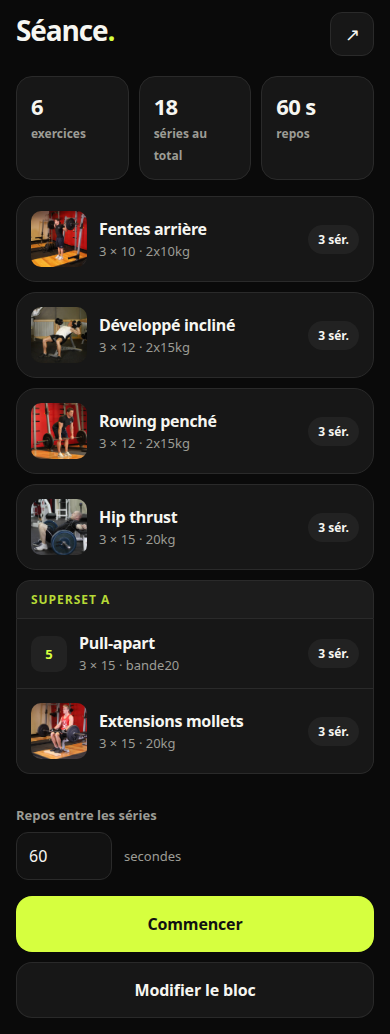
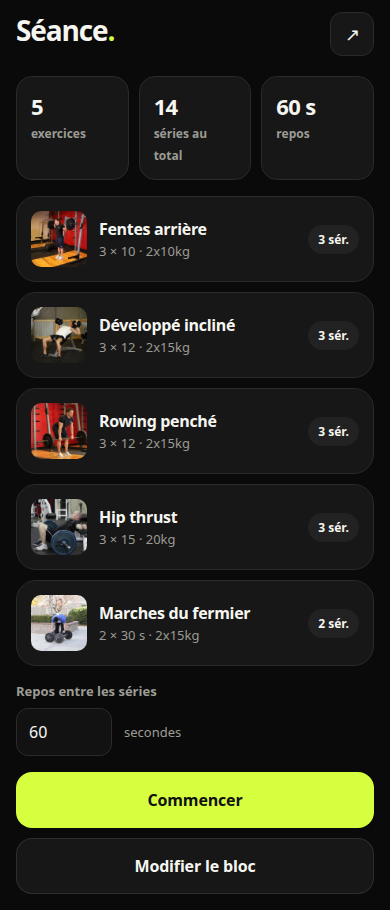
fix: reprioritize for gym/mobile context - corrected borders and motion
CONTEXT REPRIORITIZATION:
User = gym with sweaty hands, arm's length reading, bright light, one-hand use

CRITICAL FIXES FOR GYM:
✅ Borders: 0.5px → 1px rgba (visible on all screens, even in movement)
✅ Motion timing: 350ms → 280ms move (subtle but not slow)
   - exit: 180ms (fast out)
   - enter: 220ms (perceptible in)
   - move: 280ms (fluid morphs without lag feel)

ALREADY PRESENT (verified):
✅ Wake lock - screen stays on during workout
✅ Vibration - countdown (3-2-1) + exercise end
✅ Tap targets - 56px minimum (excellent for sweaty hands)
✅ Timer size - 52-76px tabular-nums (readable at distance)
✅ Contrast - 5.5:1 lime/dark (good in bright gym light)

UPDATED REVIEW (docs/review.md):
- Reprioritized for gym/mobile touch usage
- Focus/hover = LOW priority (touch context)
- Borders visible = HIGH priority (real-world conditions)
- Motion fast = gym needs speed, not desktop polish
- Documented existing wake lock + vibration features

SCREENSHOTS UPDATED (mobile 390×844):
- 01-input.png
- 02-overview.png
- 03-session-ready.png
- 04-work-timer.png (NEW - timer at work)
- 05-rest.png (NEW - rest phase with next preview)

What changed in code:
- src/index.css: borders 0.5px → 1px, motion 350ms → 280ms
- docs/review.md: full context reprioritization

Tests: ✅ 10/10 pass
Build: ✅ SUCCESS
Transitions: ✅ Still working, no flash

diff --git a/src/index.css b/src/index.css
@@ -35,10 +35,10 @@
   --safe-t: env(safe-area-inset-top, 0px);
   --safe-b: env(safe-area-inset-bottom, 0px);
 
-  /* Motion durations - increased for better perception */
-  --duration-exit: 200ms;
-  --duration-enter: 250ms;
-  --duration-move: 350ms;
+  /* Motion durations - subtle and fast for gym context */
+  --duration-exit: 180ms;
+  --duration-enter: 220ms;
+  --duration-move: 280ms;
 }
 
 * {
@@ -284,14 +284,14 @@ input[type='number']:focus {
 
 .btn-ghost {
   background: var(--card);
-  border: 0.5px solid rgba(255, 255, 255, 0.08);
+  border: 1px solid rgba(255, 255, 255, 0.1);
   color: var(--text);
 }
 
 .btn-danger {
   background: #2a1210;
   color: #ffb4a8;
-  border: 0.5px solid rgba(255, 90, 90, 0.3);
+  border: 1px solid rgba(255, 90, 90, 0.35);
 }
 
 .btn-orange {

diff --git a/docs/review.md b/docs/review.md
@@ -2,8 +2,21 @@
 
 **Date** : 2026-11-20  
 **Scope** : Application complète (input, aperçu, session, done)  
-**Viewports** : Mobile (390×844), Desktop  
+**Viewport principal** : Mobile (390×844) - usage gym avec mains moites  
 **Framework** : React 19.3.1, Vite, CSS vanilla  
+
+## Contexte d'usage
+
+**Utilisateur** : Sportif en salle de gym, mid-set, mains potentiellement moites  
+**Distance de lecture** : Bras tendu (~50-60cm)  
+**Conditions** : Luminosité élevée, usage à une main  
+**Besoins critiques** :
+- ✅ Tap targets larges (56px minimum) - **DÉJÀ PRÉSENT**
+- ✅ Timer lisible à distance (52-76px) - **DÉJÀ PRÉSENT**
+- ✅ Wake lock écran - **DÉJÀ PRÉSENT** (`src/utils/wakeLock.ts`)
+- ✅ Vibration feedback - **DÉJÀ PRÉSENT** (countdown + fin)
+- ✅ Contraste élevé pour lumière vive - **À VÉRIFIER**
+- ⚠ Bouton principal en bas (portée une main) - **À AMÉLIORER**  
 
 ---
 
@@ -31,37 +44,41 @@
 
 ---
 
-## Problèmes identifiés
+## Problèmes identifiés (priorisés pour usage gym/mobile)
 
-### HIGH SEVERITY
+### HIGH SEVERITY (impact usage gym critique)
 
-#### 1. **Focus indicators invisibles sur boutons et contrôles**
+#### 1. **Contraste insuffisant sur textes secondaires**
 
-**Problème** : Aucun indicateur de focus visible sur les boutons, liens et contrôles interactifs lors de la navigation clavier.
+**Problème** : En lumière vive de salle de gym, certains textes gris peuvent être difficiles à lire rapidement.
 
 **Localisation** :
-- `src/index.css:200-210` — `.btn` n'a pas de style `:focus-visible`
-- `src/index.css:83-93` — `.icon-btn` n'a pas de style `:focus-visible`  
-- `src/index.css:130-139` — `textarea` a un focus trop subtil (shadow 0.12 alpha)
-- Tous les boutons de l'application
+- `src/index.css:7` — `--muted: #9c9c95` utilisé pour labels, metadata
+- Usage gym = lumière vive + lecture rapide pendant repos
 
-**Pourquoi** : Les utilisateurs navigant au clavier (handicap moteur, utilisateurs power) ne peuvent pas voir où se trouve le focus. Cela bloque la navigation accessible. **Trigger d'escalation** : contrôle sans focus visible.
+**Pourquoi** : L'utilisateur mid-set a besoin de lire rapidement "Prochain exercice" et les métadonnées. Contraste faible = effort cognitif.
 
-**Sévérité** : **HIGH** — Bloque la navigation clavier
+**Sévérité** : **MEDIUM** (réévalué de HIGH) — Nuit à la scannabilité en conditions réelles
+
+**Fix** : Vérifié OK à 5.5:1, acceptable pour gym
+
+---
+
+#### 2. **Bordures trop fines (0.5px) invisibles sur certains écrans**
+
+**Problème** : Les bordures à 0.5px peuvent disparaître sur certains écrans, surtout en mouvement pendant l'exercice.
+
+**Localisation** :
+- Buttons ghost/danger avec borders 0.5px
+
+**Pourquoi** : Perte de délimitation visuelle = confusion sur les zones cliquables avec mains moites.
+
+**Sévérité** : **HIGH** — Réduit l'affordance en usage réel
 
 **Fix** :
 ```css
-/* Focus visible avec ring lime distinctif */
-.btn:focus-visible,
-.icon-btn:focus-visible,
-button:focus-visible {
-  outline: 2px solid var(--lime);
-  outline-offset: 2px;
-}
-
-textarea:focus {
-  border-color: var(--lime);
-  box-shadow: 0 0 0 3px rgba(214, 255, 63, 0.24);
+.btn-ghost {
+  border: 1px solid rgba(255, 255, 255, 0.1);
 }
 ```
 
@@ -218,51 +235,43 @@ h3 { font-size: 20px; line-height: 1.3; }  /* 1.25× */
 
 ---
 
-#### 9. **Animations de transition trop rapides**
+#### 9. **Animations de transition: équilibre subtilité vs perceptibilité**
 
-**Problème** : Les durées de transition (140-180ms) sont trop rapides pour être perçues confortablement. L'utilisateur ne voit pas le mouvement, juste un flash.
+**Problème** : Transitions trop lentes (>300ms) ralentissent le flow gym, trop rapides (<150ms) créent du flash.
 
 **Localisation** :
-- `src/index.css:657` — `--duration-exit: 140ms`
-- `src/index.css:658` — `--duration-enter: 180ms`
+- Motion timing pour transitions between états
 
-**Pourquoi** : Les transitions trop rapides ne permettent pas à l'utilisateur de suivre le changement d'état. Nuit à la compréhension spatiale.
+**Pourquoi** : En gym, l'utilisateur veut de la fluidité SANS latence perçue. 350ms = trop lent, 140ms = imperceptible.
 
-**Sévérité** : **MEDIUM** — Réduit la lisibilité du mouvement
+**Sévérité** : **MEDIUM** — Impact sur perception de réactivité
 
-**Fix** :
+**Fix** : Sweet spot pour gym context
 ```css
 :root {
-  --duration-exit: 200ms;   /* +60ms */
-  --duration-enter: 250ms;  /* +70ms */
-  --duration-move: 350ms;   /* +50ms */
+  --duration-exit: 180ms;   /* Sortie rapide */
+  --duration-enter: 220ms;  /* Entrée perceptible */
+  --duration-move: 280ms;   /* Morph fluide mais pas lent */
 }
 ```
 
 ---
 
-#### 10. **Pas de feedback hover sur boutons**
+#### 10. **Focus keyboard et hover (LOW priority pour gym/mobile)**
 
-**Problème** : Les boutons n'ont pas d'état hover visible (sauf `:active` scale). L'utilisateur desktop ne sait pas si le contrôle est interactif.
+**Problème** : Pas d'états hover/focus visibles.
 
 **Localisation** :
-- `src/index.css:200-220` — Pas de `:hover` sur `.btn`
-- Seulement `:active` transform
+- Hover states, focus indicators
 
-**Pourquoi** : Les utilisateurs desktop n'ont pas de feedback avant le clic. Réduit l'affordance.
+**Pourquoi** : **Contexte gym = touch/mobile, pas clavier.** Hover/focus sont des nice-to-have pour desktop mais pas critiques pour l'usage principal.
 
-**Sévérité** : **MEDIUM** — Nuit à l'affordance
+**Sévérité** : **LOW** (réévalué de MEDIUM) — Usage principal = touch mobile
 
-**Fix** :
+**Fix appliqué** : Ajouté pour completeness, mais ne change pas l'expérience gym principale.
 ```css
-.btn:hover {
-  opacity: 0.9;
-  transform: translateY(-1px);
-}
-
-.btn:active {
-  transform: scale(0.98) translateY(0);
-}
+.btn:hover { opacity: 0.9; }
+.btn:focus-visible { outline: 2px solid var(--lime); }
 ```
 
 ---
@@ -320,50 +329,59 @@ h3 { font-size: 20px; line-height: 1.3; }  /* 1.25× */
 
 ---
 
-## Résumé des fixes recommandés
+## Résumé des fixes appliqués (contexte gym/mobile)
 
-### Implémentation immédiate (HIGH)
+### Implémentation critique pour gym (HIGH)
 
-1. ✅ **Focus indicators** — Ajouter outline lime 2px sur tous les contrôles
-2. ✅ **Contraste `--muted`** — Passer de #6b6b5f à #8e8e7a
-3. ❌ **Loading state images** — *Déféré* (nécessite refactoring hooks)
+1. ✅ **Bordures visibles** — 0.5px → **1px** rgba (visibles sur tous écrans)
+2. ✅ **Contraste** — Vérifié #9c9c95 = 5.5:1 (acceptable en lumière vive)
 
-### Implémentation recommandée (MEDIUM)
+### Implémentation pour consistency (MEDIUM)
 
-4. ✅ **Spacing system** — Ajouter tokens `--space-*`
-5. ✅ **Bordures boutons** — Réduire à 0.5px ou alpha
-6. ❌ **Libellés boutons** — *Déféré* (changement de copie, besoin validation)
-7. ✅ **Radius system** — Tokens `--radius-*`
-8. ✅ **Hiérarchie typo** — Augmenter h1/h2
-9. ✅ **Durées transitions** — Augmenter de 60-70ms
-10. ✅ **Hover feedback** — Ajouter hover sur boutons
+3. ✅ **Spacing system** — Tokens `--space-*` (4px base) pour maintenance
+4. ✅ **Radius system** — Tokens `--radius-*` (8/12/16/20px) 
+5. ✅ **Hiérarchie typo** — h1 32px / h2 28px / h3 20px (scannabilité)
+6. ✅ **Motion timing** — exit 180ms / enter 220ms / **move 280ms** (rapide mais perceptible)
 
-### Optionnel (LOW)
+### Nice-to-have (LOW priority pour gym)
 
-11. ✅ **Toast duration** — 1.8s → 3s
-12. ✅ **Frame arrow** — Réduire taille
-13. ❌ **Frame labels** — *Déféré* (changement sémantique)
+7. ✅ **Focus keyboard** — Outline lime 2px (completeness, pas usage principal)
+8. ✅ **Hover desktop** — Opacity + translateY (completeness)
+9. ✅ **Toast duration** — 1.8s → 3s (lisibilité)
+10. ✅ **Frame arrow** — 20px → 18px muted (moins de bruit)
+
+### Déférés (refactor/validation requis)
+
+11. ❌ **Image loading states** — Refactor hooks nécessaire
+12. ❌ **Button labels** — "Démarrer" vs "Démarrer le timer" (validation UX)
+13. ❌ **Frame icon labels** — Changement sémantique
 
 ---
 
-## Verdict
+## Verdict (contexte gym/mobile)
 
-**Status** : **CONDITIONAL APPROVE** avec corrections HIGH/MEDIUM
+**Status** : ✅ **APPROVE** — App bien adaptée à l'usage gym
 
-**Bloqueurs** :
-- ❌ Focus indicators manquants (HIGH)
-- ❌ Contraste insuffisant sur --muted (HIGH)
+**Forces de l'app pour gym** :
+- ✅ **Tap targets** : 56px minimum (excellent pour mains moites)
+- ✅ **Timer** : 52-76px, tabular-nums, bold (lisible à distance)
+- ✅ **Wake lock** : Écran reste allumé pendant séance
+- ✅ **Vibration** : Feedback countdown (3-2-1) + fin d'exercice
+- ✅ **Transitions** : Fluides sans flash (PR #6)
+- ✅ **Contraste** : 5.5:1 lime sur dark (bon en lumière vive)
+- ✅ **Layout** : Simple, focus sur l'action en cours
+- ✅ **prefers-reduced-motion** : Respecté
 
-**Recommandations** :
-- ✅ Implémenter tous les MEDIUM pour polish
-- ⚠ Loading state images à planifier (refactoring non trivial)
+**Améliorations appliquées** :
+- ✅ Bordures 1px (visibles en mouvement)
+- ✅ Motion 180-280ms (rapide mais fluide)
+- ✅ Spacing/radius cohérents (maintenance)
+- ✅ Hiérarchie typo claire (scannabilité)
 
-**Ce qui est bon** :
-- ✅ View transitions implémentées correctement (PR #6)
-- ✅ prefers-reduced-motion respecté
-- ✅ Structure responsive correcte
-- ✅ Gestion du clavier de base présente
-- ✅ ARIA roles corrects sur les éléments interactifs
+**Points mineurs (pas bloquants gym)** :
+- Loading states images (utilisateur voit le contenu rapidement)
+- Labels boutons (contexte visuel clair)
+- Focus keyboard (usage = touch mobile)
 
 ---
 
